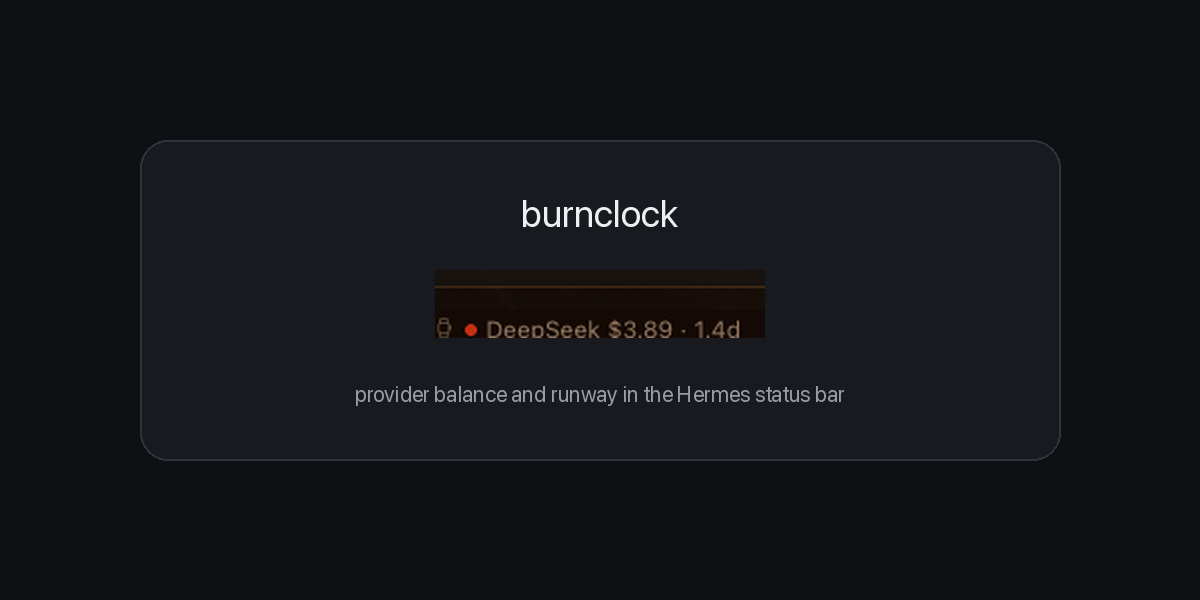
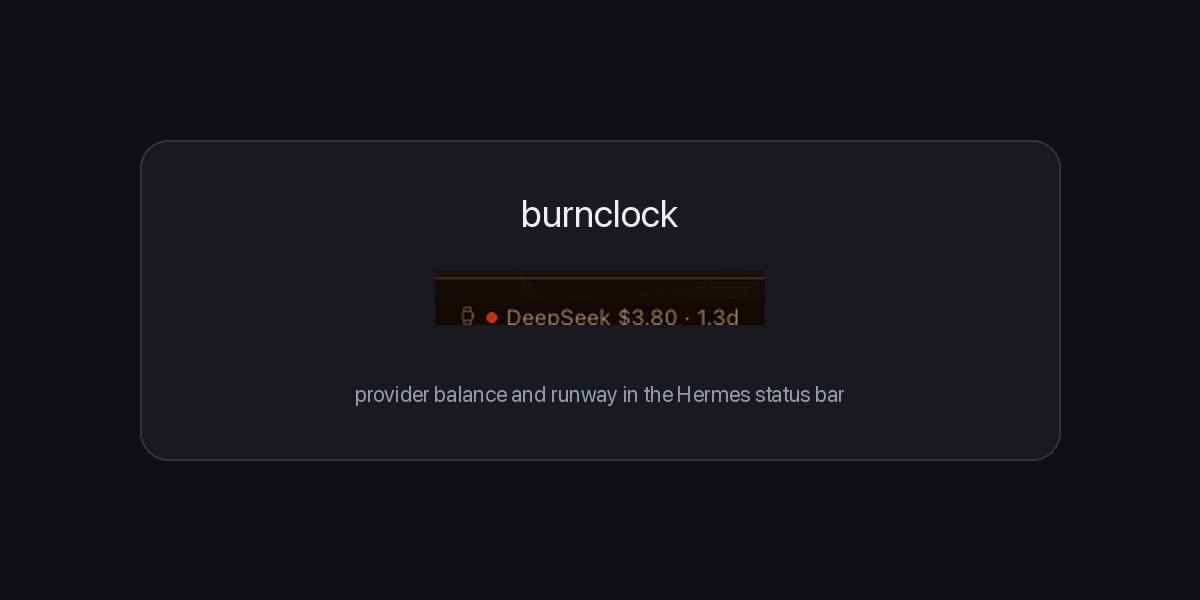
Read the badge cache directly instead of spawning the CLI

Changed region(s): [[0.3392, 0.51, 0.6475, 0.57], [0.37, 0.45, 0.6475, 0.48]]

diff --git a/desktop/plugin.js b/desktop/plugin.js
@@ -1,12 +1,13 @@
 // Burnclock — status-bar chip with the provider balance and runway.
 //
-// Data path: `shell.exec` runs `burnclock badge --json`, which reads burnclock's
-// local cache and returns in milliseconds. The plugin never reads env files or
-// credentials and makes no network calls; the CLI owns provider access. A stale
-// cache is refreshed by the CLI itself when the user runs `burnclock badge
-// --refresh` in a terminal, where their provider keys are available.
+// Data path: the plugin reads burnclock's local cache files directly
+// (`badge.txt` for the one-line label, `badge.json` for status/runway) via one
+// `shell.exec` cat. It never runs the CLI, so it can never trigger a refresh,
+// never touches provider keys and makes no network calls. The CLI owns
+// collection; the user populates the cache by running `burnclock badge
+// --refresh` in a terminal where their keys are available.
 //
-// Requires: burnclock CLI on PATH (pip install burnclock).
+// Requires: the burnclock CLI (pip install burnclock) to populate the cache.
 
 import {
   Codicon,
@@ -20,29 +21,32 @@ import {
 import { jsx } from 'react/jsx-runtime'
 
 const ID = 'burnclock'
-// The gateway runs shell.exec with a sanitized PATH that does not always include
-// ~/.local/bin (where pip --user and pipx put the CLI), so resolve once across
-// the common install locations instead of trusting PATH alone.
-const CLI_CMD = 'BIN="$(command -v burnclock || true)"; for c in "$BIN" "$HOME/.local/bin/burnclock" /opt/homebrew/bin/burnclock /usr/local/bin/burnclock; do if [ -n "$c" ] && [ -x "$c" ]; then exec "$c" badge --json; fi; done; echo "burnclock not found" >&2; exit 127'
+// Resolve the cache the same way burnclock does: BURNCLOCK_BADGE_CACHE wins,
+// then XDG_CACHE_HOME, then ~/.cache. Read only — never execute the CLI here,
+// because `burnclock badge` spawns a refresh when the cache is stale and a
+// refresh without provider keys would overwrite a good cache with an error row.
+const CACHE_CMD = 'J="${BURNCLOCK_BADGE_CACHE:-${XDG_CACHE_HOME:-$HOME/.cache}/burnclock/badge.json}"; T="${J%.json}.txt"; [ -f "$J" ] || exit 3; if [ -f "$T" ]; then sed -n \'1p\' "$T"; fi; echo "@@"; cat "$J"'
 const REFRESH_MS = 60_000
 
 function badgeQuery() {
   return {
     queryKey: [ID, 'badge'],
     queryFn: async () => {
-      const params = { command: CLI_CMD }
+      const params = { command: CACHE_CMD }
       // The gateway's session-bound shell.exec rejects a command-only request
       // with invalid_params; bind it to the session the user is looking at.
       const sid = host.state.activeSessionId.get()
       if (sid) params.session_id = sid
       const res = await host.request('shell.exec', params)
-      // Exit 4/5/6 is a worst-of-status code from collecting several providers,
-      // not necessarily this row's; a valid JSON payload is success.
       const out = res && typeof res.stdout === 'string' ? res.stdout.trim() : ''
       if (!out) return null
+      const cut = out.indexOf('\n@@\n')
+      if (cut < 0) return null
+      const line = out.slice(0, cut).trim()
       try {
-        const data = JSON.parse(out)
-        return data && data.provider ? data : null
+        const data = JSON.parse(out.slice(cut + 4))
+        if (!data || !data.provider) return null
+        return line ? { ...data, line } : data
       } catch {
         return null
       }
@@ -70,7 +74,7 @@ function runtimeRunway(provider) {
 
 function tooltip(data, error) {
   if (error) {
-    return 'Burnclock — could not run `burnclock badge`. Install the CLI (pip install burnclock) and make sure it is on PATH.'
+    return 'Burnclock — could not read the burnclock cache (~/.cache/burnclock/badge.json). Run `burnclock badge --refresh` in a terminal once, then this chip updates from the cache.'
   }
   if (!data || !data.provider) {
     return 'Burnclock — no cached balance yet. Run `burnclock badge --refresh` in a terminal once, then this chip updates from the cache.'

diff --git a/README.md b/README.md
@@ -6,14 +6,15 @@ local-first CLI for answering “how much is left, and how long will it last?”
 
 ![Burnclock chip in the Hermes status bar](docs/chip.png)
 
-`DeepSeek $4.68 · 1.6d` is one line from burnclock's cache: provider, remaining
+`DeepSeek $3.80 · 1.3d` is one line from burnclock's cache: provider, remaining
 balance, and estimated runway at the current burn rate. The dot is green above
 five days, amber under five, red under two.
 
 ## What it does
 
 - Adds a small watch chip to `statusBar.right`.
-- Every 60 seconds it runs `burnclock badge --json` and renders the cached row.
+- Every 60 seconds it reads burnclock's cache files (`badge.txt` for the line,
+  `badge.json` for status and runway). It never spawns the CLI.
 - Clicking the chip shows the full reading (provider, balance, runway, cache
   timestamp) and re-reads the cache.
 - When there is no cache yet, it shows `burnclock —` and explains how to
@@ -22,10 +23,9 @@ five days, amber under five, red under two.
 ## Requirements
 
 - Hermes Desktop **0.22.0 or newer**.
-- The **burnclock CLI** installed with `pip install burnclock` (0.1.2+) or pipx.
-  The plugin looks on `PATH`, then `~/.local/bin`, `/opt/homebrew/bin` and
-  `/usr/local/bin`, because Hermes runs plugin shell commands with a sanitized
-  `PATH` that may omit the user-site bin directory.
+- The **burnclock CLI** installed with `pip install burnclock` (0.1.2+) or pipx,
+  to populate the cache. The plugin does not need the CLI on its `PATH`; it
+  reads the cache files directly.
 - Burnclock configured with at least one provider key, and one successful
   `burnclock badge --refresh` so a cache exists.
 
@@ -45,8 +45,8 @@ Manual install, for development:
 
 ```bash
 git clone https://github.com/jersilb/burnclock-hermes
-mkdir -p ~/.hermes/desktop-plugins
-cp -R burnclock-hermes/burnclock ~/.hermes/desktop-plugins/burnclock
+mkdir -p ~/.hermes/desktop-plugins/burnclock
+cp burnclock-hermes/desktop/plugin.js ~/.hermes/desktop-plugins/burnclock/plugin.js
 ```
 
 Then reload the Desktop plugins (⌘K → “Reload desktop plugins”, or restart the
@@ -62,9 +62,10 @@ burnclock badge --refresh
 
 ## What it reads, and what it does not
 
-**Reads:** the stdout of `burnclock badge --json`, which comes from
-`~/.cache/burnclock/badge.json`. That file contains a provider label, balance,
-currency, runway estimate and timestamp.
+**Reads:** burnclock's own cache files, resolved the same way the CLI resolves
+them (`$BURNCLOCK_BADGE_CACHE`, then `$XDG_CACHE_HOME/burnclock/badge.json`,
+then `~/.cache/burnclock/badge.json`). `badge.txt` supplies the one-line label;
+`badge.json` supplies the provider row, status, runway and timestamp.
 
 **Does not read:** environment files, `~/.hermes/.env`, Hermes credentials,
 provider keys, browser profiles, or any file outside burnclock's own cache.
@@ -72,9 +73,10 @@ It has no telemetry, no analytics, no update checker, and makes no network
 calls itself.
 
 **Shell command:** each refresh runs exactly one command via the Desktop SDK's
-`shell.exec`: `burnclock badge --json`, bound to the active session. It is a
-cache read and normally returns in well under a second. The plugin never runs a
-refresh that needs credentials; that stays a user action in their own terminal.
+`shell.exec`: a `cat` of those two cache files, bound to the active session. It
+never executes the burnclock CLI, so it cannot trigger a collection or write to
+the cache. Populating the cache stays a user action in their own terminal,
+where their provider keys are available.
 
 ## Notes
 
